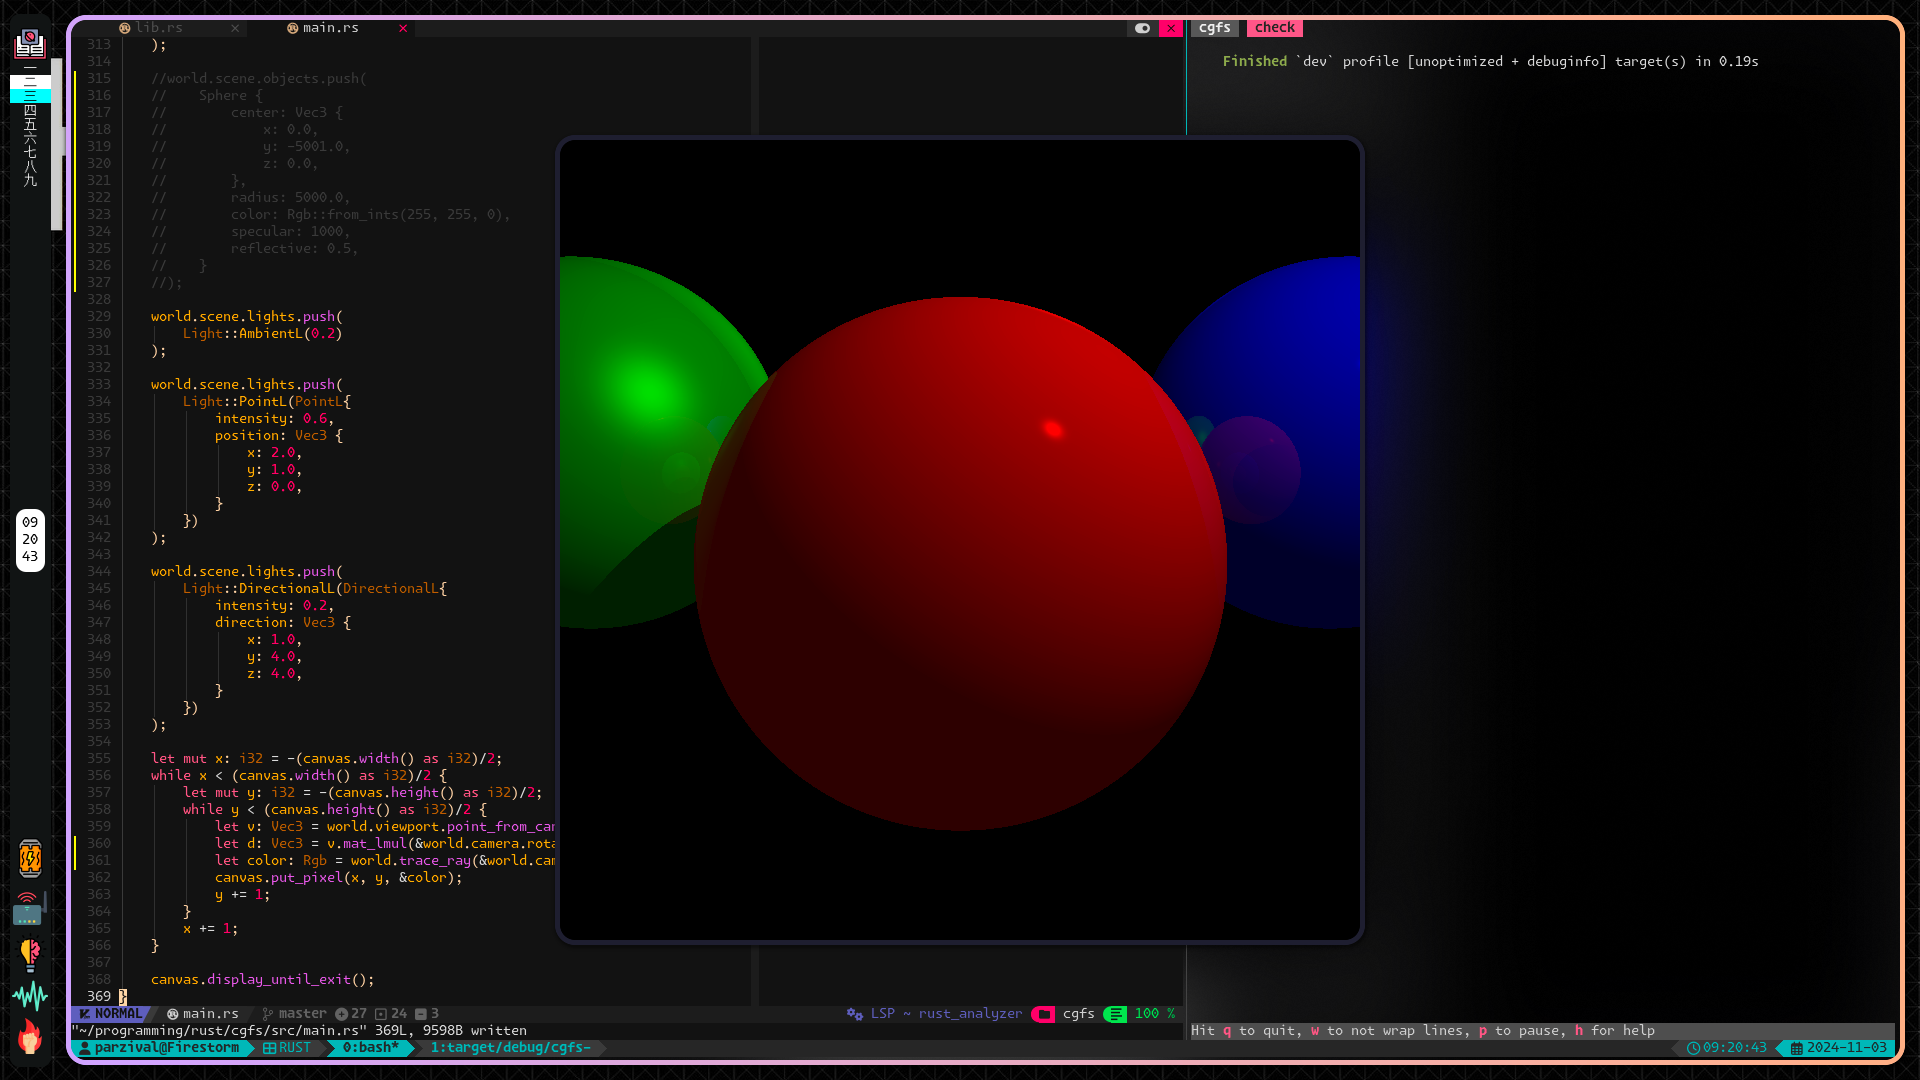
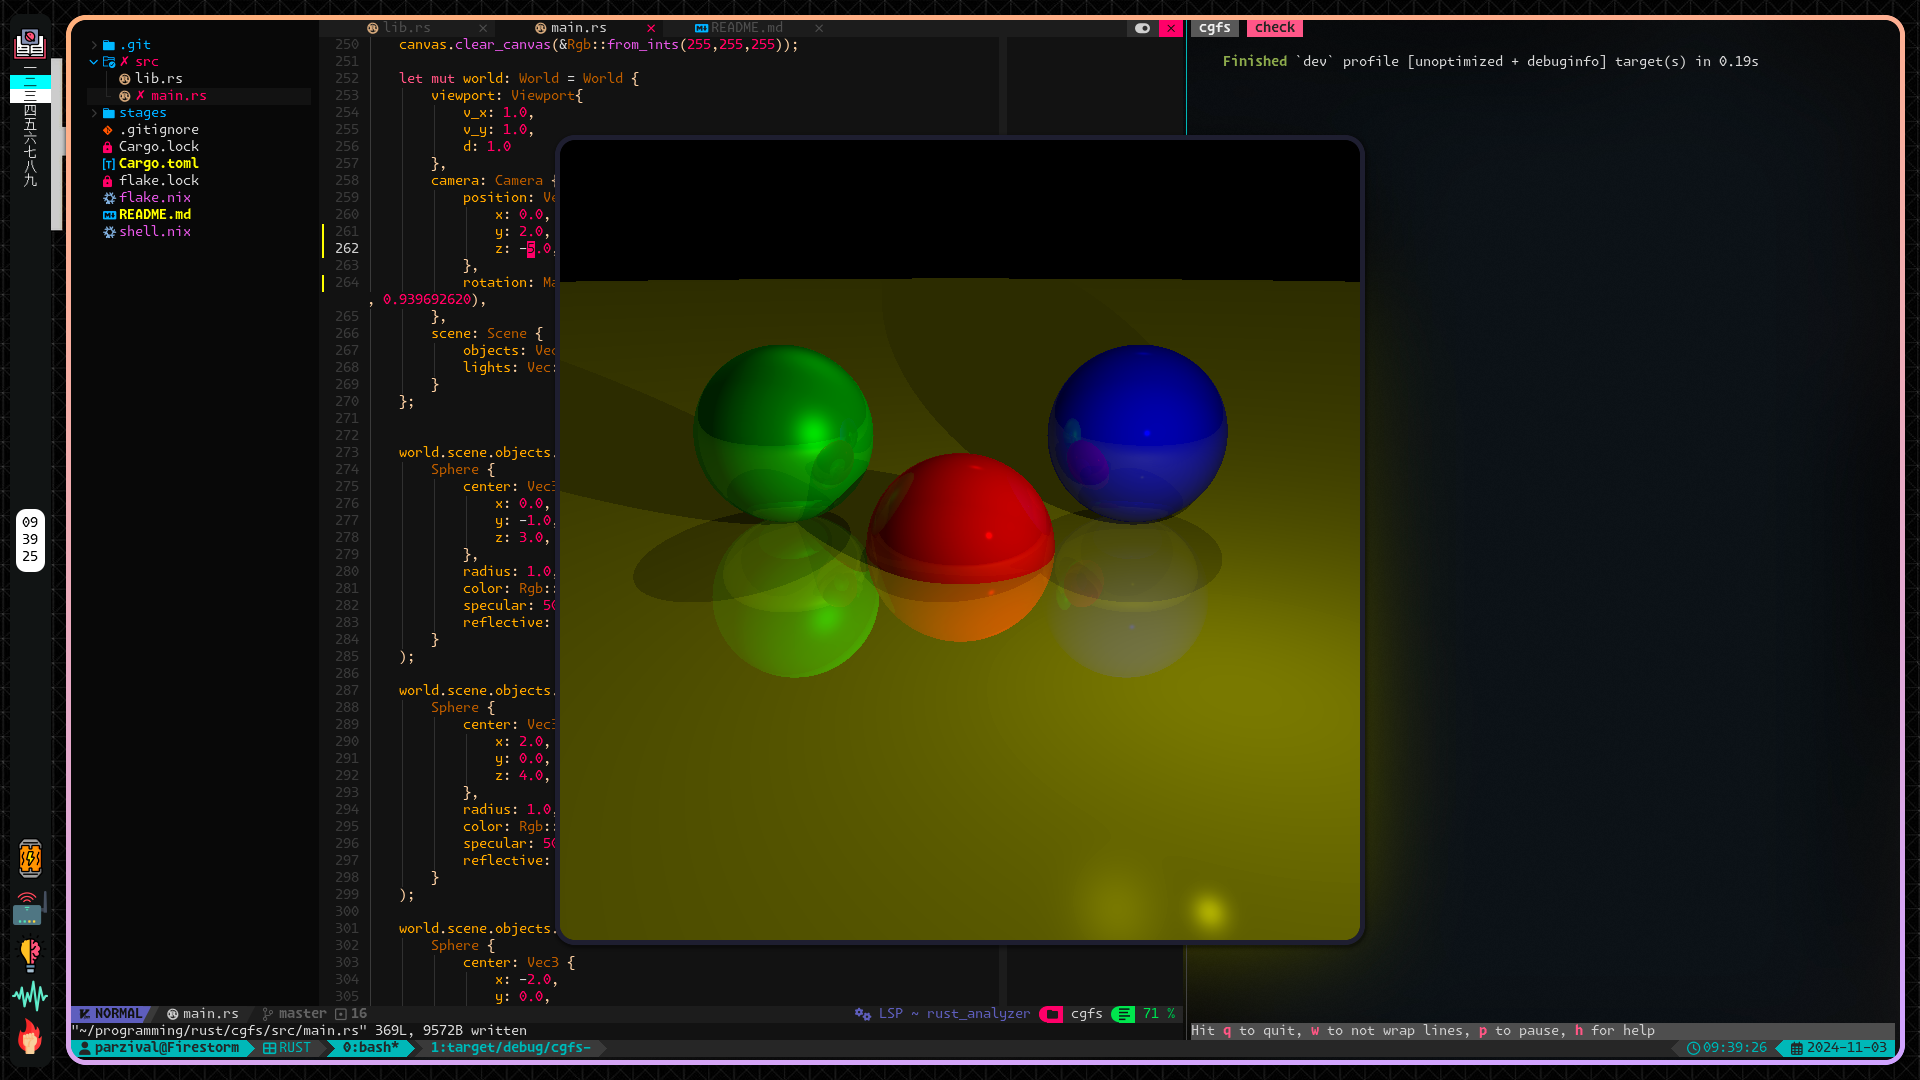
Add better image for arbitary camera

diff --git a/stages/raytracer/stage_4/main.rs b/stages/raytracer/stage_4/main.rs
@@ -258,10 +258,10 @@ fn main() {
         camera: Camera {
             position: Vec3 {
                 x: 0.0,
-                y: -2.0,
-                z: 0.0,
+                y: 2.0,
+                z: -5.0,
             },
-            rotation: Matrix3x3::new(1.0, 0.0, 0.0, 0.0, 0.939692620, 0.3420201433, 0.0, -0.3420201433, 0.939692620),
+            rotation: Matrix3x3::new(1.0, 0.0, 0.0, 0.0, 0.939692620, -0.3420201433, 0.0, 0.3420201433, 0.939692620),
         },
         scene: Scene {
             objects: Vec::new(),
@@ -312,19 +312,19 @@ fn main() {
         }
     );
 
-    //world.scene.objects.push(
-    //    Sphere {
-    //        center: Vec3 {
-    //            x: 0.0,
-    //            y: -5001.0,
-    //            z: 0.0,
-    //        },
-    //        radius: 5000.0,
-    //        color: Rgb::from_ints(255, 255, 0),
-    //        specular: 1000,
-    //        reflective: 0.5,
-    //    }
-    //);
+    world.scene.objects.push(
+        Sphere {
+            center: Vec3 {
+                x: 0.0,
+                y: -5001.0,
+                z: 0.0,
+            },
+            radius: 5000.0,
+            color: Rgb::from_ints(255, 255, 0),
+            specular: 1000,
+            reflective: 0.5,
+        }
+    );
 
     world.scene.lights.push(
         Light::AmbientL(0.2)
